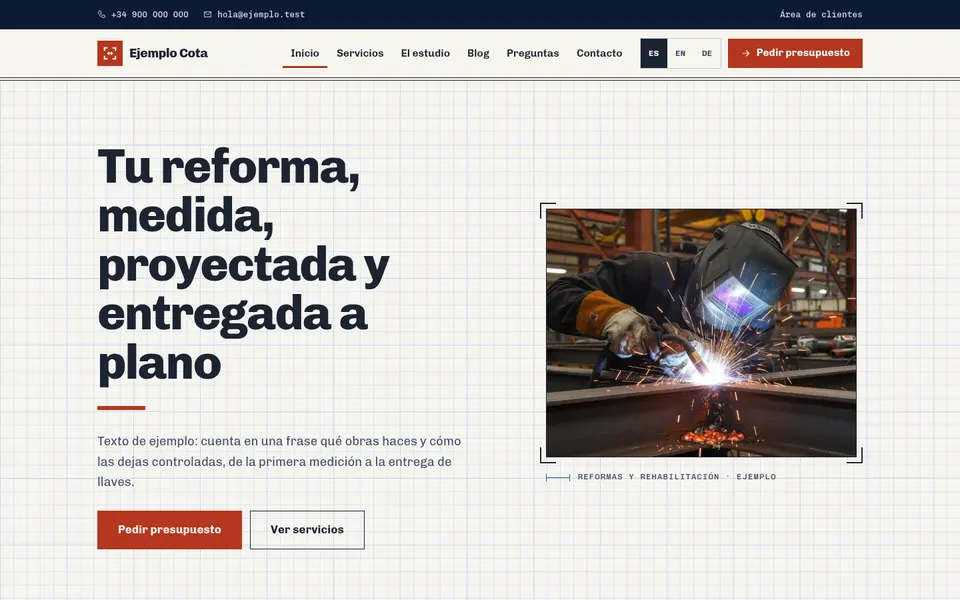
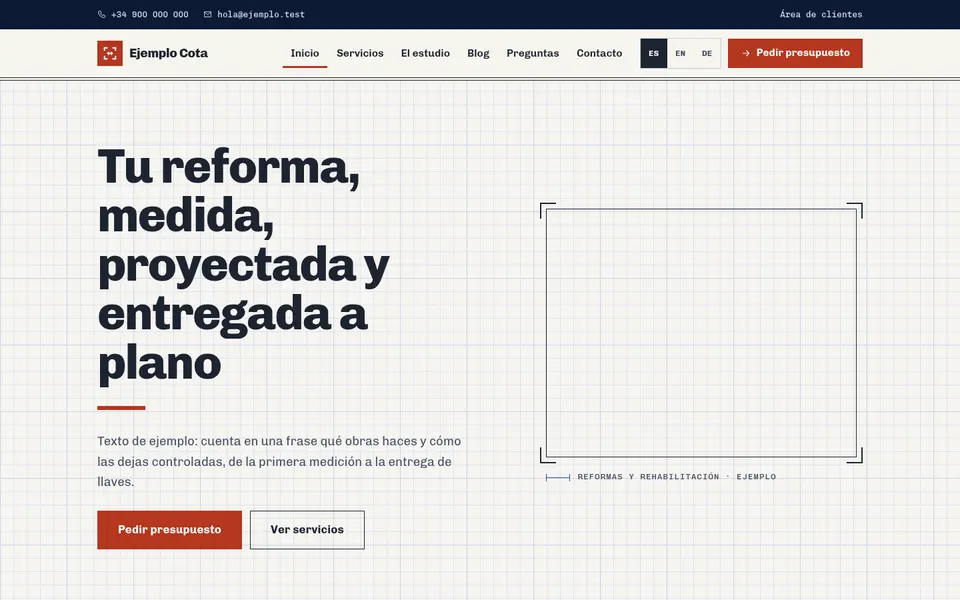
Pulcro, Horizonte, Orbital y Sutil: campos del formulario con contraste 3:1
El borde de los campos quedaba entre 1,1:1 y 2:1 frente al fondo (medido en
claro y oscuro); ahora entre 3,6:1 y 6,2:1 (WCAG 1.4.11). Capturas de galería
de Cota y Trayecto rehechas con su versión final.

Changed region(s): [[0.5625, 0.33, 0.9062, 0.78]]

diff --git a/themes/orbital/assets/style.css b/themes/orbital/assets/style.css
@@ -257,3 +257,7 @@ a.feature:hover { transform: none; border-color: var(--border); }
 .reveal-on .reveal.in { opacity: 1; transform: none; }
 @media (prefers-reduced-motion: reduce) { .reveal-on .reveal { opacity: 1; transform: none; transition: none; } *, *::before, *::after { transition: none !important; animation: none !important; } }
 @media print { .hero-orbital::before, .whatsapp-float { display: none !important; } body { background-image: none; } .site-header { position: static; } .header-inner { border: 0; box-shadow: none; } main > .hero-orbital:first-child { margin-top: 0; padding-top: 24px; } .hero-window { box-shadow: none; } }
+
+/* Campos del formulario: borde con contraste 3:1 frente al fondo (WCAG 1.4.11), en claro y oscuro */
+.form input, .form textarea, .form select { border-color: color-mix(in srgb, var(--muted) 82%, var(--card)); }
+.form input:focus, .form textarea:focus, .form select:focus { border-color: var(--accent-text); }

diff --git a/themes/horizonte/assets/style.css b/themes/horizonte/assets/style.css
@@ -252,3 +252,7 @@ a.feature:hover { border-color: color-mix(in srgb, var(--accent) 45%, var(--bord
 }
 @media (forced-colors: active) { .chip, .btn { border: 1px solid ButtonText; } }
 @media print { .topline, .whatsapp-float { display: none !important; } .hero-photo { height: auto; max-height: none; } .hero-panel { margin-top: 0 !important; box-shadow: none; } .stats-band, .site-footer { background: none; color: #000; } .stats-band .stat dd, .stats-band .stat dt, .footer-grid strong, .footer-grid a { color: #000; } }
+
+/* Campos del formulario: borde con contraste 3:1 frente al fondo (WCAG 1.4.11), en claro y oscuro */
+.form input, .form textarea, .form select { border-color: color-mix(in srgb, var(--muted) 82%, var(--card)); }
+.form input:focus, .form textarea:focus, .form select:focus { border-color: var(--accent-text); }

diff --git a/themes/sutil/assets/style.css b/themes/sutil/assets/style.css
@@ -276,3 +276,7 @@ a.feature:hover { border-color: var(--gold); }
 .reveal-on .reveal.in { opacity: 1; transform: none; }
 @media (prefers-reduced-motion: reduce) { .reveal-on .reveal { opacity: 1; transform: none; transition: none; } .btn:hover, .post-card:hover, a.feature:hover { transform: none; } .faq summary::after { transition: none; } }
 @media print { .utility, .orbs, .whatsapp-float { display: none !important; } .site-footer { background: none; } .cta { background: none; } }
+
+/* Campos del formulario: borde con contraste 3:1 frente al fondo (WCAG 1.4.11), en claro y oscuro */
+.form input, .form textarea, .form select { border-color: color-mix(in srgb, var(--muted) 82%, var(--card)); }
+.form input:focus, .form textarea:focus, .form select:focus { border-color: var(--accent-text); }

diff --git a/themes/pulcro/assets/style.css b/themes/pulcro/assets/style.css
@@ -224,3 +224,7 @@ a.feature:hover { border-color: color-mix(in srgb, var(--accent) 45%, var(--bord
 .reveal-on .reveal.in { opacity: 1; transform: none; }
 @media (prefers-reduced-motion: reduce) { .reveal-on .reveal { opacity: 1; transform: none; transition: none; } .btn:hover, .post-card:hover, .hero-badge:hover { transform: none; } }
 @media print { .infobar, .hero-badge, .whatsapp-float { display: none !important; } .hero-panel, .footer-panel { background: none; } }
+
+/* Campos del formulario: borde con contraste 3:1 frente al fondo (WCAG 1.4.11), en claro y oscuro */
+.form input, .form textarea, .form select { border-color: color-mix(in srgb, var(--muted) 82%, var(--card)); }
+.form input:focus, .form textarea:focus, .form select:focus { border-color: var(--accent-text); }
